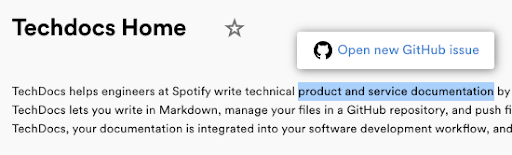
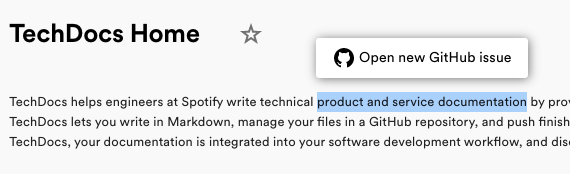
techdocs-blog-newscreenshots (#2380)

diff --git a/microsite/blog/2020-09-08-announcing-tech-docs.md b/microsite/blog/2020-09-08-announcing-tech-docs.md
@@ -17,8 +17,6 @@ We are quite sure the main reason for the success of TechDocs is our docs-like-c
 
 ![available-templates](assets/announcing-techdocs/docs-in-backstage.png)
 
-Watch this video to see [Spotify’s internal version of TechDocs](https://backstage.io/demos) in action.
-
 But this is just one way to do it. Today we’re most excited for what the open version of TechDocs can become.
 
 ## Okay, let’s start collaborating
